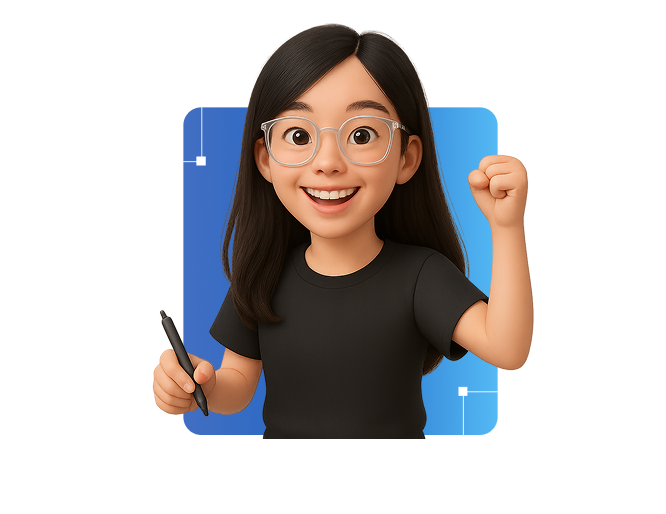
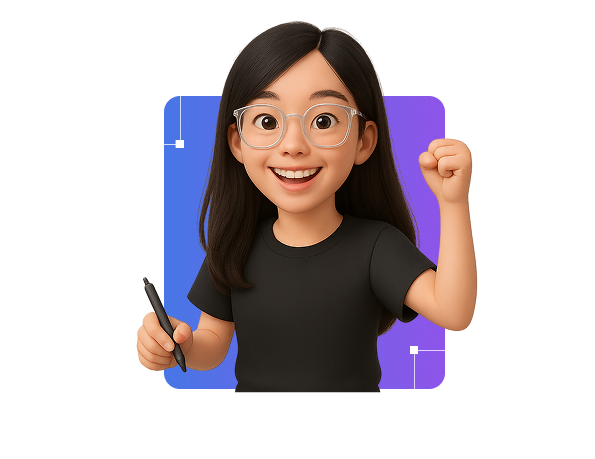
refactor: update color gradients and styles across multiple components

diff --git a/src/components/LoadingScreen.tsx b/src/components/LoadingScreen.tsx
@@ -175,13 +175,13 @@ const LoadingScreen: React.FC<LoadingScreenProps> = ({
                 <path d="M34.5139 28.082C34.5139 29.6679 33.2301 30.9547 31.6441 30.9583L13.4653 31C4.42361 31 4.611e-07 25.8816 0 15.4034C-3.76095e-07 6.8567 4.18056 2.26947 9.625 2.26947C14.875 2.26947 16.1389 5.93925 16.1389 9.12617L16.6736 9.12617C16.6736 5.93925 17.3056 3.14496e-07 24.5486 0C30.0903 -2.40611e-07 35 4.29751 35 13.9548C35 20.1355 32.2778 24.6745 28.7292 24.6745H28.2917L28.2431 25.2056H31.6375C33.2261 25.2056 34.5139 26.4934 34.5139 28.082ZM19.4444 17.1417H14.3403V15.0654C14.3403 12.9408 13.9028 7.919 10.0625 7.919C7.34028 7.919 5.44444 10.5265 5.44444 15.7414C5.44444 21.9704 7.58333 25.1573 13.4653 25.1573H20.0764C26.4444 25.1573 29.5069 20.715 29.5069 13.9065C29.5069 9.80218 28.1944 5.50467 24.1111 5.50467C19.6389 5.50467 19.4444 10.5748 19.4444 12.9891V17.1417Z" />
               </clipPath>
               <linearGradient id="waterGradient" x1="0%" y1="0%" x2="0%" y2="100%">
-                <stop offset="0%" stopColor="#54B9F4" stopOpacity="0.9">
+                <stop offset="0%" stopColor="#5441C2" stopOpacity="0.9">
                   <animate attributeName="stopColor" values="#54B9F4;#416EC2;#2067C6;#54B9F4" dur="3s" repeatCount="indefinite" />
                 </stop>
-                <stop offset="50%" stopColor="#2067C6" stopOpacity="1">
+                <stop offset="50%" stopColor="#7542E4" stopOpacity="1">
                   <animate attributeName="stopColor" values="#2067C6;#54B9F4;#416EC2;#2067C6" dur="3s" repeatCount="indefinite" />
                 </stop>
-                <stop offset="100%" stopColor="#416EC2" stopOpacity="1">
+                <stop offset="100%" stopColor="#9543F2" stopOpacity="1">
                   <animate attributeName="stopColor" values="#416EC2;#2067C6;#54B9F4;#416EC2" dur="3s" repeatCount="indefinite" />
                 </stop>
               </linearGradient>

diff --git a/src/components/ContactForm.tsx b/src/components/ContactForm.tsx
@@ -28,7 +28,7 @@ const ContactSection = styled.div`
     }
     
     .contact-info {
-        color: #7CA3EE;
+        color: #8E54E9;
         display: flex;
         align-items: center;
         gap: 0.75rem;
@@ -41,7 +41,7 @@ const ContactSection = styled.div`
     }
     
     .form-label {
-        color: #7CA3EE;
+        color: #fff;
         font-weight: 500;
         margin-bottom: 0.5rem;
     }
@@ -56,7 +56,7 @@ const ContactSection = styled.div`
         
         &:focus {
             background: rgba(255, 255, 255, 0.08);
-            border-color: #7CA3EE;
+            border-color: #8E54E9;
             box-shadow: 0 0 0 0.2rem rgba(124, 163, 238, 0.25);
             color: #fff;
         }
@@ -67,7 +67,7 @@ const ContactSection = styled.div`
     }
     
     .submit-btn {
-        background: linear-gradient(90deg, #3b82f6 0%, #8b5cf6 100%);
+        background: #9182E1;
         border: none;
         padding: 0.75rem 2rem;
         border-radius: 8px;
@@ -218,11 +218,11 @@ export default function ContactForm() {
                         </p>
                         <div className='d-flex flex-column'>
                             <span className='contact-info mb-4'>
-                                <Call size={24} color="#7CA3EE"/> 
+                                <Call size={24} color="#8E54E9"/> 
                                 038 679 8487
                             </span> 
                             <span className='contact-info'>
-                                <Sms size={24} color="#7CA3EE"/> 
+                                <Sms size={24} color="#8E54E9"/> 
                                 thaotruongdesign@gmail.com
                             </span>
                         </div>

diff --git a/src/app/about/page.tsx b/src/app/about/page.tsx
@@ -29,7 +29,7 @@ const DivParent = styled.div`
     font-size: 4rem;
     font-weight: 900;
     text-transform: uppercase;
-    background: linear-gradient(135deg, rgb(65, 110, 194), rgb(32, 103, 198), rgb(84, 185, 244)) text;
+    background: linear-gradient(135deg, #4776E6, #8E54E9);
     -webkit-background-clip: text;
     -webkit-text-fill-color: transparent;
     background-clip: text;
@@ -120,7 +120,7 @@ const DivParent = styled.div`
     font-size: 24px;
     line-height: 138%;
     letter-spacing: 3.5%;
-    background: linear-gradient(90deg, #416EC2 0%, #2067C6 50%, #54B9F4 100%);
+    background: linear-gradient( #4776E6, #8E54E9);
     -webkit-background-clip: text;
     -webkit-text-fill-color: transparent;
     background-clip: text;
@@ -143,7 +143,7 @@ const DivParent = styled.div`
   .link-cv {
     font-size: 1rem;
     font-weight: 400;
-    color: #3b82f6;
+    color: #fff;
     text-decoration: none;
     display: flex;
     align-items: center;
@@ -171,7 +171,7 @@ const DivParent = styled.div`
     font-size: 24px;
     line-height: 138%;
     letter-spacing: 3.5%;
-    background: linear-gradient(90deg, #416EC2 0%, #2067C6 50%, #54B9F4 100%);
+    background: linear-gradient(90deg, #4776E6 0%, #8E54E9 100%);
     -webkit-background-clip: text;
     -webkit-text-fill-color: transparent;
     background-clip: text;
@@ -312,7 +312,7 @@ const DivParent = styled.div`
 .footer__title--down h1 {
   white-space: nowrap;
   font-size: 32px;
-  background: linear-gradient(90deg, #416EC2 0%, #2067C6 50%, #54B9F4 100%);
+  background: linear-gradient(90deg, #4776E6 0%, #8E54E9 100%);
   -webkit-background-clip: text;
   -webkit-text-fill-color: transparent;
   background-clip: text;

diff --git a/src/app/portfolio/page.tsx b/src/app/portfolio/page.tsx
@@ -31,7 +31,7 @@ const HeroSection = styled.section`
 const HeroTitle = styled.h1`
     font-size: clamp(3rem, 8vw, 6rem);
     font-weight: 900;
-    background: linear-gradient(135deg, #416EC2, #2067C6, #54B9F4);
+    background: linear-gradient(135deg, #4776E6, #8E54E9);
     background-clip: text;
     -webkit-background-clip: text;
     -webkit-text-fill-color: transparent;
@@ -155,13 +155,13 @@ const FilterTabs = styled.div<{$isSticky?: boolean}>`
 
 const FilterTab = styled.button<{$isActive: boolean}>`
     background: ${props => props.$isActive 
-        ? 'rgba(59, 130, 246, 0.2)' 
+        ? '#8e54e940' 
         : 'rgba(255, 255, 255, 0.1)'};
     backdrop-filter: blur(10px);
     border: 1px solid ${props => props.$isActive 
-        ? 'rgba(59, 130, 246, 0.5)' 
+        ? '#8E54E9' 
         : 'rgba(255, 255, 255, 0.2)'};
-    color: ${props => props.$isActive ? '#3b82f6' : '#9ca3af'};
+    color: ${props => props.$isActive ? '#8E54E9' : '#9ca3af'};
     padding: 12px 24px;
     border-radius: 25px;
     cursor: pointer;

diff --git a/src/app/page.tsx b/src/app/page.tsx
@@ -8,7 +8,7 @@ import anime from 'animejs';
 import { useLoading } from '@/components/LoadingProvider';
 const Global = createGlobalStyle`
   :root {
-    --primary-blue: #4A90E2;
+    --primary-blue: #8E54E9;
     --dark-bg: #0A0A0A;
     --dark-secondary: #1A1A1A;
     --text-gray: #808080;
@@ -127,7 +127,7 @@ const S = {
   
   Tag: styled.span`
     padding: 0.5rem 1rem;
-    background: linear-gradient(90deg, #416EC2 0%, #2067C6 50%, #54B9F4 100%);
+    background: linear-gradient(90deg, #4776E6 0%, #8E54E9 100%);
     -webkit-background-clip: text;
     -webkit-text-fill-color: transparent;
     background-clip: text;

diff --git a/src/app/contact/page.tsx b/src/app/contact/page.tsx
@@ -19,7 +19,7 @@ const DivParent = styled.div`
         font-size: 4rem;
         font-weight: 900;
         text-transform: uppercase;
-        background: linear-gradient(135deg, rgb(65, 110, 194), rgb(32, 103, 198), rgb(84, 185, 244)) text;
+        background: linear-gradient(135deg, #4776E6, #8E54E9) text;
         -webkit-background-clip: text;
         -webkit-text-fill-color: transparent;
         background-clip: text;

diff --git a/src/components/ButtonViewPort.tsx b/src/components/ButtonViewPort.tsx
@@ -47,7 +47,7 @@ const ButtonGradient = styled(Link)`
     align-items: center;
     gap: 0.5rem;
     padding: 1rem 2rem;
-    background: linear-gradient(135deg, #416EC2 0%, #2067C6 50%, #54B9F4 100%);
+    background: linear-gradient(135deg, #4776E6 0%, #8E54E9 100%);
     color: #FFFFFF;
     text-decoration: none;
     border-radius: 12px;

diff --git a/src/components/BlockInforContact.tsx b/src/components/BlockInforContact.tsx
@@ -5,7 +5,7 @@ const DivParent = styled.div`
     height: 142px;
     border-radius: 10px;
     .block-title {
-        color: #416EC2;
+        color: #8E54E9;
         font-weight: 700;
 
     }

diff --git a/src/components/MainMenu.tsx b/src/components/MainMenu.tsx
@@ -116,7 +116,7 @@ const DivParent = styled.div`
   }
   .btn.active {
     border: none;
-    color: #416ec2;
+    color: #8E54E9;
   }
 
   /* Mobile menu toggle */
